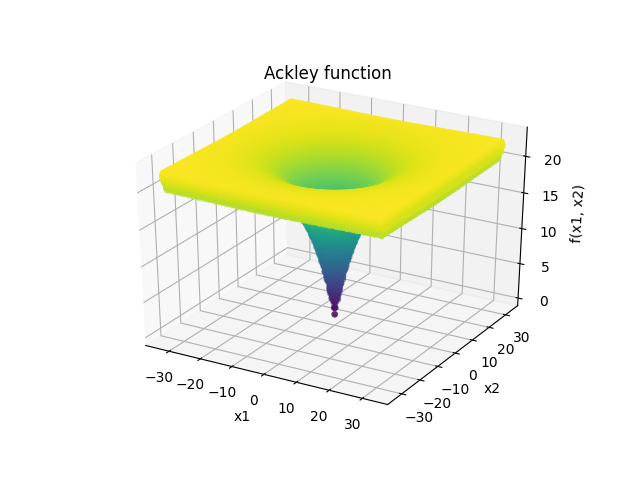
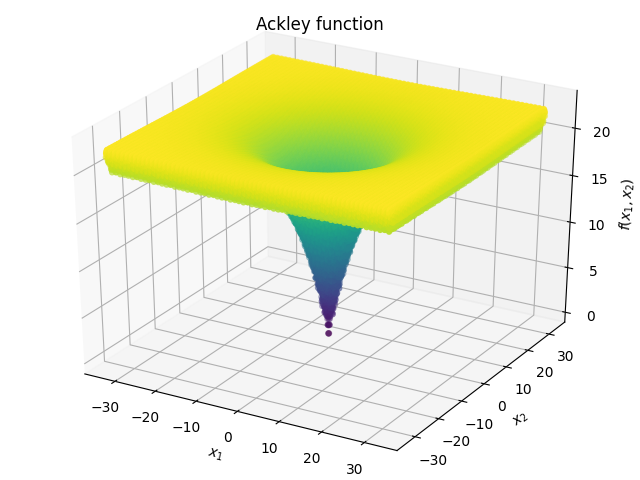
added math mode to axes

diff --git a/docs/_static/codes/fig-rastrigin.py b/docs/_static/codes/fig-rastrigin.py
@@ -31,8 +31,8 @@ xvalues2 = xvalues[:, 1]
 fig = plt.figure()
 ax = Axes3D(fig)
 ax.scatter(xvalues1, xvalues2, yvalues, c=yvalues, cmap="viridis", linewidth=0.05)
-ax.set_xlabel("x1")
-ax.set_ylabel("x2")
-ax.set_zlabel("f(x1, x2)")
+ax.set_xlabel("$x_1$")
+ax.set_ylabel("$x_2$")
+ax.set_zlabel("$f(x_1, x_2)$")
 ax.set_title("Rastrigin function")
 fig.savefig("fig-rastrigin-500")

diff --git a/docs/_static/codes/fig-ackley.py b/docs/_static/codes/fig-ackley.py
@@ -31,8 +31,8 @@ xvalues2 = xvalues[:, 1]
 fig = plt.figure()
 ax = Axes3D(fig)
 ax.scatter(xvalues1, xvalues2, yvalues, c=yvalues, cmap="viridis", linewidth=0.05)
-ax.set_xlabel("x1")
-ax.set_ylabel("x2")
-ax.set_zlabel("f(x1, x2)")
+ax.set_xlabel("$x_1$")
+ax.set_ylabel("$x_2$")
+ax.set_zlabel("$f(x_1, x_2)$")
 ax.set_title("Ackley function")
 fig.savefig("fig-ackley-500")
